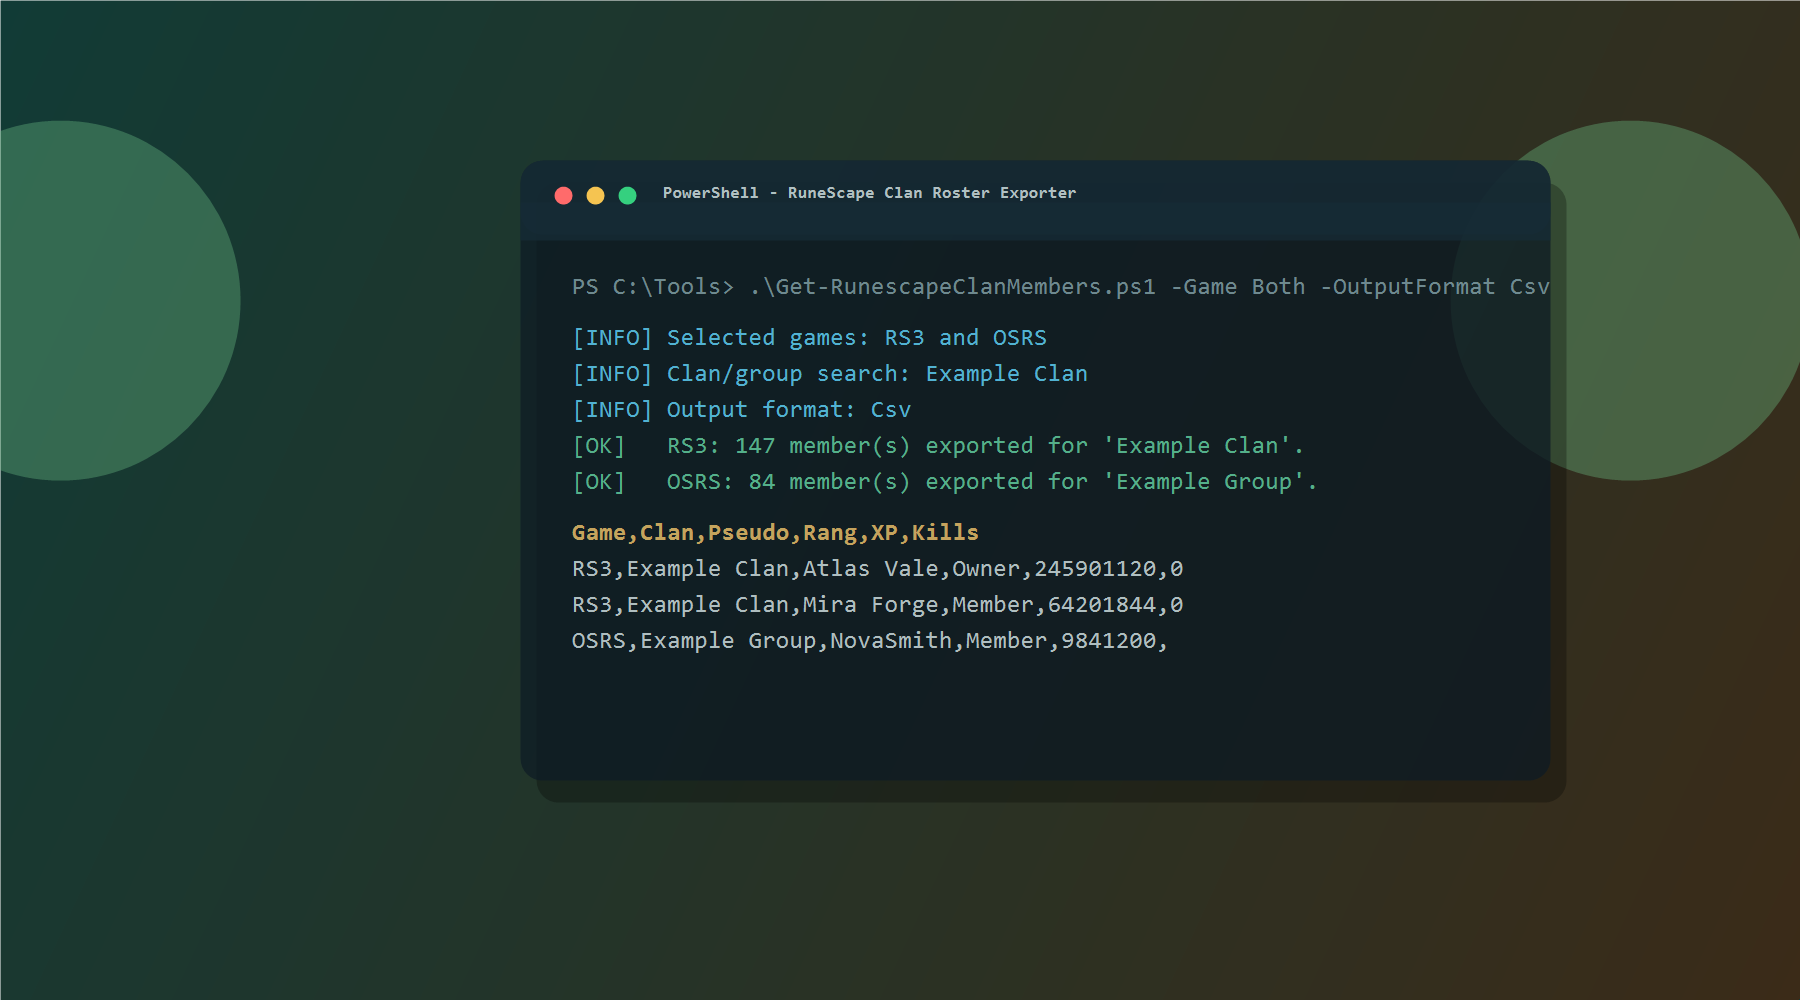
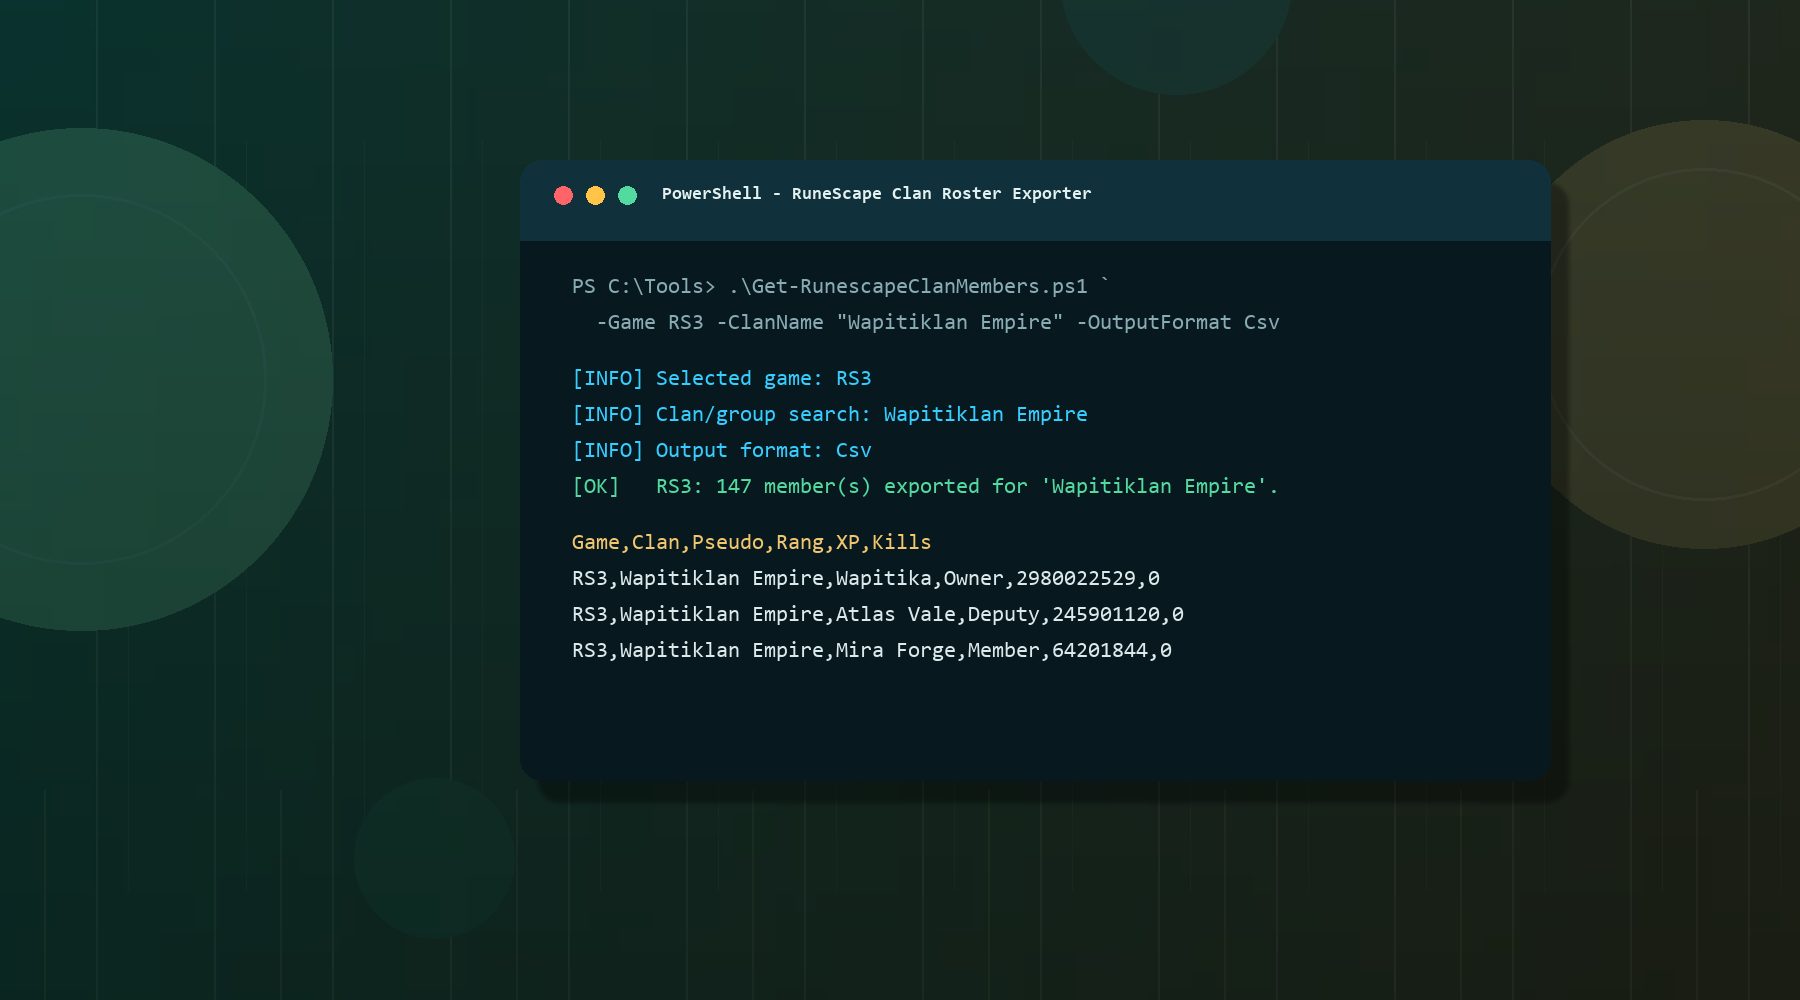
Polish microsite layout

diff --git a/docs/assets/site.css b/docs/assets/site.css
@@ -13,12 +13,40 @@
   --coral: #d65f3f;
   --sponsor: #bf3989;
   --sponsor-hover: #a62f77;
+  --scroll-track: rgba(234, 242, 239, 0.92);
+  --scroll-thumb: rgba(22, 122, 99, 0.52);
+  --scroll-thumb-hover: rgba(15, 92, 75, 0.78);
   --shadow: 0 18px 42px rgba(23, 32, 42, 0.12);
   --shadow-lift: 0 22px 46px rgba(23, 32, 42, 0.16);
 }
 
 * {
   box-sizing: border-box;
+  scrollbar-color: var(--scroll-thumb) var(--scroll-track);
+  scrollbar-width: thin;
+}
+
+*::-webkit-scrollbar {
+  width: 12px;
+  height: 12px;
+}
+
+*::-webkit-scrollbar-track {
+  background: var(--scroll-track);
+}
+
+*::-webkit-scrollbar-thumb {
+  border: 3px solid var(--scroll-track);
+  border-radius: 999px;
+  background: linear-gradient(180deg, rgba(22, 122, 99, 0.72), rgba(180, 118, 34, 0.58));
+}
+
+*::-webkit-scrollbar-thumb:hover {
+  background: linear-gradient(180deg, var(--scroll-thumb-hover), rgba(180, 118, 34, 0.78));
+}
+
+*::-webkit-scrollbar-corner {
+  background: var(--scroll-track);
 }
 
 html {
@@ -67,7 +95,11 @@ pre {
   gap: 20px;
   min-height: 72px;
   padding: 14px 48px;
-  background: rgba(255, 255, 255, 0.94);
+  background:
+    radial-gradient(circle at 9% -28px, rgba(22, 122, 99, 0.12) 0 56px, transparent 58px),
+    radial-gradient(circle at 92% 96px, rgba(180, 118, 34, 0.1) 0 64px, transparent 66px),
+    repeating-linear-gradient(90deg, rgba(23, 32, 42, 0.035) 0 1px, transparent 1px 84px),
+    rgba(255, 255, 255, 0.94);
   border-bottom: 1px solid var(--line);
   border-top: 4px solid var(--green);
   box-shadow: 0 10px 26px rgba(23, 32, 42, 0.07);
@@ -127,6 +159,7 @@ nav a:focus {
   isolation: isolate;
   display: flex;
   align-items: center;
+  justify-content: center;
   overflow: hidden;
   min-height: 520px;
   height: 72svh;
@@ -141,16 +174,18 @@ nav a:focus {
 .hero::after {
   content: "";
   position: absolute;
-  inset: auto 0 0;
-  z-index: -1;
-  height: 140px;
+  inset: 0;
+  z-index: 0;
+  pointer-events: none;
   background:
-    linear-gradient(180deg, transparent, rgba(5, 12, 16, 0.56)),
-    repeating-linear-gradient(90deg, rgba(255, 255, 255, 0.13) 0 2px, transparent 2px 24px);
+    linear-gradient(90deg, rgba(5, 12, 16, 0.22), transparent 36%, rgba(5, 12, 16, 0.14)),
+    linear-gradient(180deg, transparent 58%, rgba(5, 12, 16, 0.58));
 }
 
 .hero-content {
-  width: min(720px, 100%);
+  position: relative;
+  z-index: 1;
+  width: min(1080px, 100%);
 }
 
 .tag {
@@ -362,27 +397,29 @@ h3 {
 
 .release-strip {
   display: grid;
-  grid-template-columns: minmax(0, 1fr) minmax(260px, 0.9fr);
-  gap: 28px;
+  grid-template-columns: minmax(0, 1.15fr) minmax(240px, 0.85fr);
+  gap: 20px;
   align-items: center;
-  padding: 28px 48px;
+  padding: 18px max(48px, calc((100% - 1080px) / 2));
   background:
     linear-gradient(135deg, #ffffff, #f2fbf7 52%, #fff8e8);
   border-bottom: 1px solid var(--line);
 }
 
 .release-strip h2 {
-  font-size: 1.45rem;
+  margin-bottom: 6px;
+  font-size: 1.18rem;
 }
 
 .release-strip p {
   margin-bottom: 0;
   color: var(--muted);
+  font-size: 0.94rem;
 }
 
 .release-strip dl {
   display: grid;
-  gap: 12px;
+  gap: 8px;
   margin: 0;
 }
 
@@ -393,7 +430,7 @@ h3 {
 
 .release-strip dt {
   color: var(--muted);
-  font-size: 0.82rem;
+  font-size: 0.72rem;
   font-weight: 800;
   text-transform: uppercase;
 }
@@ -401,6 +438,7 @@ h3 {
 .release-strip dd {
   margin: 0;
   overflow-wrap: anywhere;
+  font-size: 0.9rem;
   font-weight: 700;
 }
 
@@ -558,14 +596,26 @@ td:first-child {
   overflow-x: auto;
   color: #dce9ea;
   font-size: 1rem;
+  scrollbar-color: rgba(140, 224, 191, 0.74) rgba(255, 255, 255, 0.08);
+}
+
+.code-panel pre::-webkit-scrollbar-track {
+  border-radius: 999px;
+  background: rgba(255, 255, 255, 0.08);
+}
+
+.code-panel pre::-webkit-scrollbar-thumb {
+  border-color: #101922;
+  background: linear-gradient(90deg, rgba(140, 224, 191, 0.88), rgba(241, 199, 110, 0.78));
 }
 
 footer {
-  margin-top: 84px;
-  padding: 34px 48px 44px;
+  margin-top: 66px;
+  padding: 22px 48px 26px;
   background:
     linear-gradient(135deg, #111922, #102f33 58%, #2d2518);
   color: #d9e1e4;
+  font-size: 0.86rem;
 }
 
 @media (prefers-reduced-motion: no-preference) {
@@ -604,7 +654,7 @@ footer {
 
 footer p {
   max-width: 1080px;
-  margin: 0 auto 10px;
+  margin: 0 auto 7px;
 }
 
 footer p:last-child {
@@ -650,7 +700,8 @@ footer a {
   }
 
   .release-strip {
-    padding: 26px 22px;
+    gap: 12px;
+    padding: 18px 22px;
   }
 }
 
@@ -702,6 +753,6 @@ footer a {
   }
 
   footer {
-    padding: 30px 22px 38px;
+    padding: 20px 22px 24px;
   }
 }

diff --git a/docs/index.html b/docs/index.html
@@ -184,8 +184,8 @@
         </div>
         <div class="code-panel" aria-label="PowerShell command example">
           <pre><code>.\Get-RunescapeClanMembers.ps1 `
-  -Game Both `
-  -ClanName "Example Clan" `
+  -Game RS3 `
+  -ClanName "Wapitiklan Empire" `
   -OutputFormat Csv</code></pre>
         </div>
       </div>

diff --git a/docs/user-guide.md b/docs/user-guide.md
@@ -18,22 +18,22 @@ Interactive mode asks for the target game, the clan or group name, and the outpu
 
 ## Examples
 
-Export an RS3 clan to CSV:
+Export the RS3 clan Wapitiklan Empire to CSV:
 
 ```powershell
-.\Get-RunescapeClanMembers.ps1 -Game RS3 -ClanName "Example Clan" -OutputFormat Csv
+.\Get-RunescapeClanMembers.ps1 -Game RS3 -ClanName "Wapitiklan Empire" -OutputFormat Csv
 ```
 
-Export an OSRS group to Markdown:
+Export the same RS3 clan to Markdown:
 
 ```powershell
-.\Get-RunescapeClanMembers.ps1 -Game OSRS -ClanName "Example Group" -OutputFormat Markdown
+.\Get-RunescapeClanMembers.ps1 -Game RS3 -ClanName "Wapitiklan Empire" -OutputFormat Markdown
 ```
 
-Search the same name in RS3 and OSRS:
+Export an OSRS group to CSV:
 
 ```powershell
-.\Get-RunescapeClanMembers.ps1 -Game Both -ClanName "Example Clan" -OutputFormat Csv
+.\Get-RunescapeClanMembers.ps1 -Game OSRS -ClanName "KnightSlayer" -OutputFormat Csv
 ```
 
 ## Generated Files
